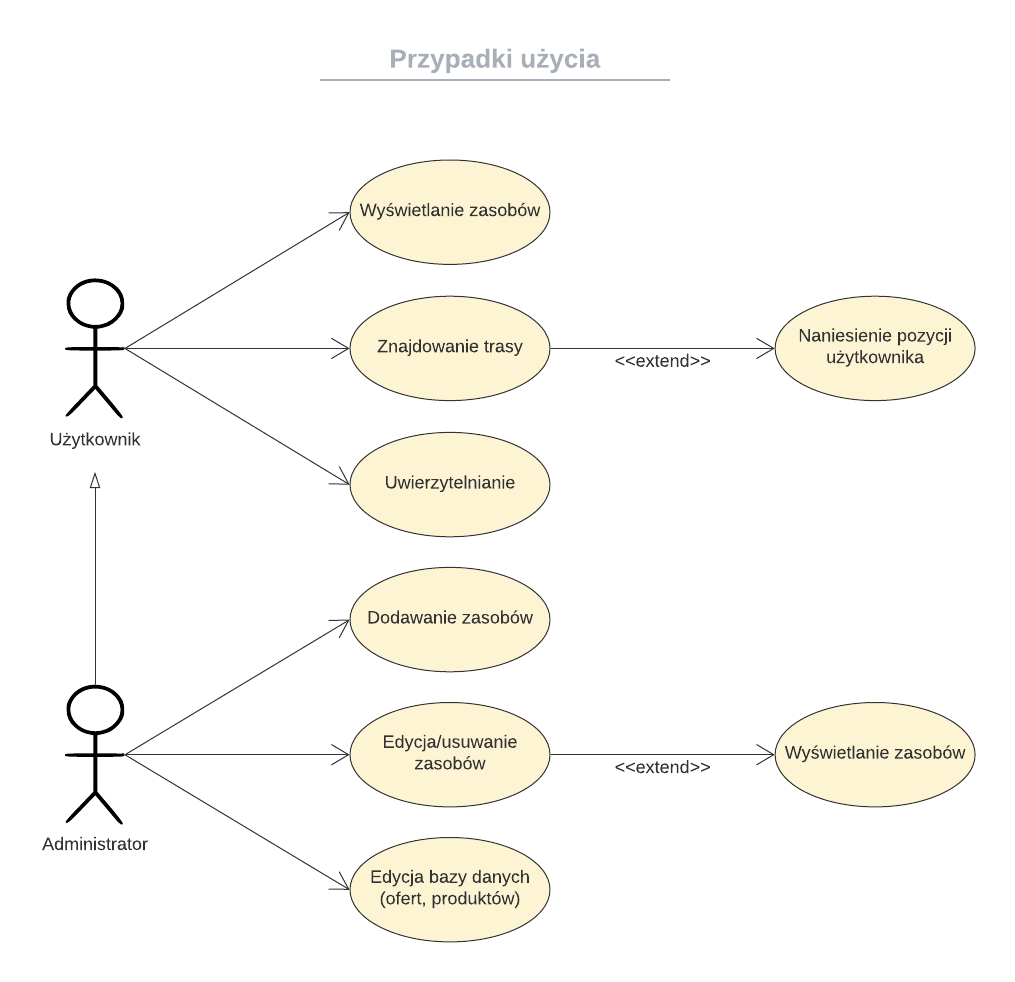
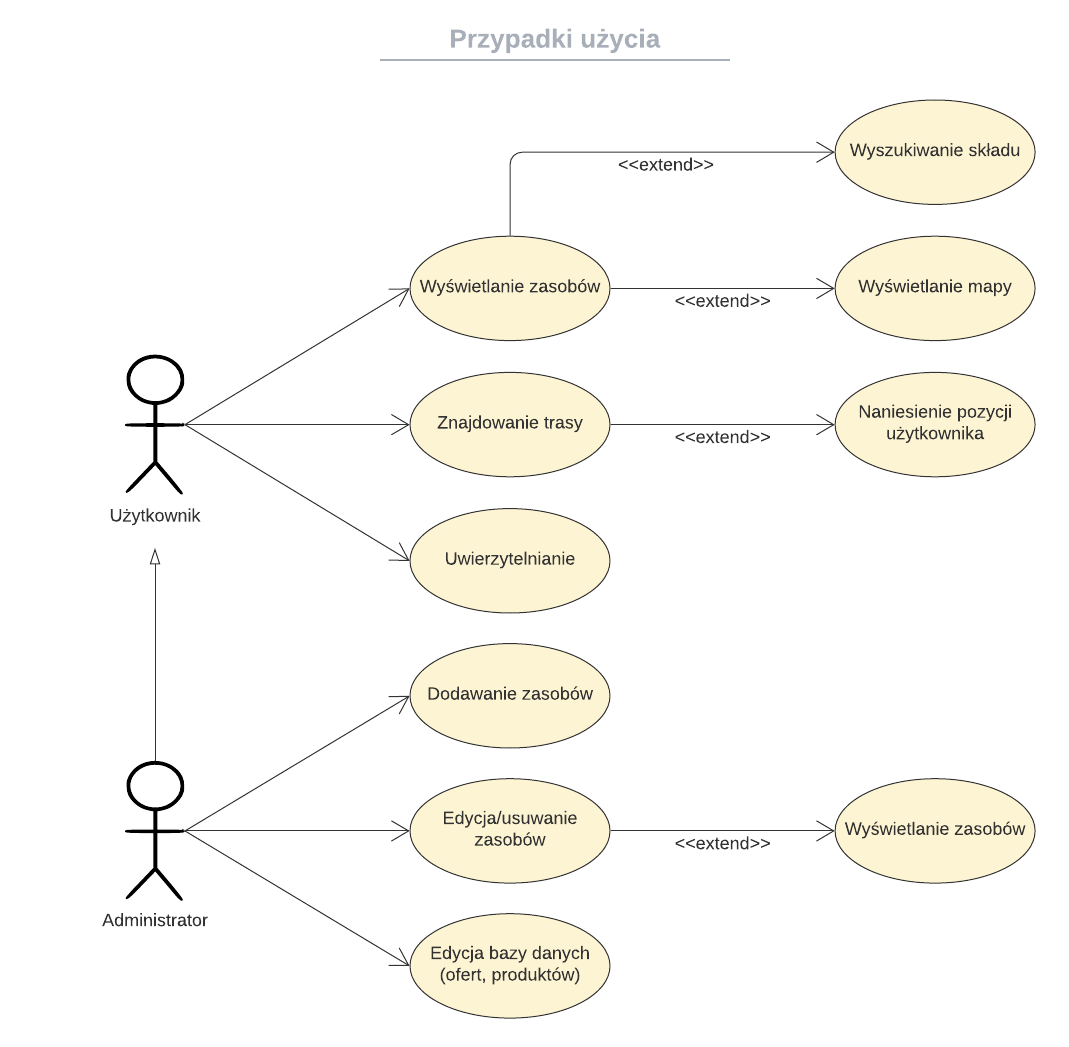
poprawienie

diff --git a/docs/Projekt-systemu.md b/docs/Projekt-systemu.md
@@ -1,23 +1,74 @@
 # Projekt Systemu
 
-## Architektura systemu
+## Wstęp
 
-- model oraz struktura na poziomie głównych bloków funkcjonalnych
-- diagramy
-    - przepływ sterowania
-        - [uwierzytelnianie](https://lucid.app/lucidchart/invitations/accept/8f8b7b4d-717c-455a-8884-1de739772dbf)
+Projekt ma za cel mplementacje internetowego portalu, który dostarczać będzie informacji m. in. o lokalizacji i innych cechach określonego rodzaju obiektów z danego obszaru. Wybranymi przez nas obiektami są składy budowlane. Przykładowe dane opisujące konkretny obiekt to: nazwa punktu, ew. przynależność do sieci tego rodzaju punktów, oferta (kategorie produktów), ceny najbardziej popularnych produktów, lokalizacja geograficzna punktu usługowego. Portal będzie dodatkowo umożliwiał dodatkowe funkcjonalności.
+
+
+## Aktorzy
+
+ - bezpośredni użytkownicy aplikacji,
+ - administratorzy,
+ - twórcy oraz osoby zaangażowane w jej utrzymanie.
+
+
+## Główne funkcje systemu (Sposób ich wywołania i parametry)
+
+- Wyświetlanie mapy
+- Znajdowanie trasy
+- Wyszukiwanie składu
+- Naniesienie na mapę obiektów (składy budowlane)
+- Naniesienie na mapę pozycji użytkownika
+    - poprzez interfej postawienie markera na mapie.
+- Dodawanie i edycja obiektów dla administratora
+- Prezentacja informacji o wybranym obiekcie
+- Wyliczanie drogi pomiedzy obiektami
+- Scalanie markerów przy zmniejszaniu skali
+    - Pomniejszenie mapy poprzez interfejs lub scroll myszy
+- Znajdowanie składu
+- Trasowanie
+
+
+## Przypadki użycia
+
+[Diagram online](https://lucid.app/lucidchart/invitations/accept/5aeeff3c-66a8-4277-9b84-76ac267686b8)
+    ![Przypadki użycia][use-cases] 
+
+
+
+## Diagramy sekwencji
+
+[Uwierzytelnianie diagram online](https://lucid.app/lucidchart/invitations/accept/8f8b7b4d-717c-455a-8884-1de739772dbf)
         ![uwierzytelnianie][sd-auth]
-        - [dodawanie składów](https://lucid.app/lucidchart/invitations/accept/0ab9f03f-5ef8-4bf6-a1f0-a548879ab0ac)
+[Dodawanie składów diagram online](https://lucid.app/lucidchart/invitations/accept/0ab9f03f-5ef8-4bf6-a1f0-a548879ab0ac)
         ![dodawanie składów][sd-add-asset]
-    - danych
-    - [przypadki użycia klas](https://lucid.app/lucidchart/invitations/accept/5aeeff3c-66a8-4277-9b84-76ac267686b8)
-    ![Przypadki użycia][use-cases]   
+
+
+
+## Struktury danych i bazy danych
+
+### Bazy danych
+
+<span style="color:red">TODO: ERD: informacja o użytkownika i baza użytkowników (admin, regular user)</span>
+
+[Model ERD](https://lucid.app/lucidchart/invitations/accept/b159eb18-5e39-4430-a0bb-e2351735fe51)
+
+![Database ERD][database-erd]
+
+
+
+## Architektura, technologia i narzędzia
+
+### Architektura systemu
 
 Aplikacja zostanie stworzona jako samodzielny system o architekturze *klient - serwer*. Kod będzie zorganizowany według wzorca monolit z podziałem na moduły funkcjonalne, część frontendową i backendową. Frontend odpowiada za interfejs użytkownika, interakcję z sytemem i prezentację danych. Backend odpowiadza za zarządzanie, modyfiakcje, przechowywanie i udostępnianie danych (administracja). Dane z backendu będą udostępnane frontendowi poprzez API.
 
 ![Architektura trój warstwowa][triple-layer-arch]
 
-### API
+
+#### API
+
+Będzie używane API REST w JSON
 
 API udostępniane przez Backend ma dostarczać danych z bazy potrzebnych do wypełnienia interfejsów użytkownika.
 
@@ -27,7 +78,8 @@ Endpointy backend:
 - `/kategorie-produktów` - ma zwracać listę wszystkich kategorii produktów
 - `/produkty` - ma zwracać listę wszystkich produktów
 
-## Środowisko tworzenia aplikacji
+
+### Środowisko tworzenia aplikacji
 
 - język programowania
     - Frotend (Technologie Web)
@@ -36,28 +88,18 @@ Endpointy backend:
         - Javascript
     - Backend
         - PHP
-        - SQL
+        - SQL (MariaDB mysql)
 - kompilator i środowisko
     - Do edycji kodu źródłowego developer może używać dowolnego edytora, wszystkie potrzebne narzędzia są dostępne z poziomu CLI
     - Aplikacja bedzie serwowana przez Apache HTTP Serwer
 - szablon projektu
 
-## Struktury danych
-
-- struktura bazy danych (diagram)
-
-[Model ERD](https://lucid.app/lucidchart/invitations/accept/b159eb18-5e39-4430-a0bb-e2351735fe51)
-
-![Database ERD][database-erd]
-
-## Projekt interfejsu użytkownika
-
-- najważniejsze okna tworzonej aplikacji
-- wymagania co do rozmiaru okna
-    Interfejs ma być responsywny. Korzystanie z niego ma być możliwe na różnych rozdzielczościach ekranów desktopowych. Wersji na ekrany urządzeń mobilnych w tej wersji nie przewidujemy.
 
 ## Wykorzystane zasoby
-asdadasdada
+
+<span style="color:red">TODO: Rozbudować, usunąć pozycje placeholderowe - w kategorie wrzucić wyspecyfikować wykorzystane zasoby, lub usnac kategorie.</span>
+<span style="color:red">TODO: frameworki, szablony. uzupełnić migracja bazy, framework symfony / laravel etc.</span>
+
 - biblioteki graficzne
 - algorytmy
 - klasy, wzorce projektowe, szablony
@@ -66,17 +108,14 @@ asdadasdada
 - Open Layers - komponent mapowy
 - Nominati - geokodowanie, zwracanie informacji o punkcie/markerze
 
-## Główne funkcje systemu (Sposób ich wywołania i parametry)
+## Projekt interfejsu użytkownika
 
-- Wyświetlanie mapy
-- Naniesienie na mapę obiektów (składy budowlane)
-- Naniesienie na mapę pozycji użytkownika
-    - poprzez interfej postawienie markera na mapie.
-- Dodawanie i edycja obiektów dla administratora
-- Prezentacja informacji o wybranym obiekcie
-- Wyliczanie drogi pomiedzy obiektami
-- Scalanie markerów przy zmniejszaniu skali
-    - Pomniejszenie mapy poprzez interfejs lub scroll myszy
+- najważniejsze okna tworzonej aplikacji
+- wymagania co do rozmiaru okna
+    Interfejs ma być responsywny. Korzystanie z niego ma być możliwe na różnych rozdzielczościach ekranów desktopowych. Wersji na ekrany urządzeń mobilnych w tej wersji nie przewidujemy.
+
+
+
 
 
 [database-erd]: ./img/database-erd-lucidchart.png
